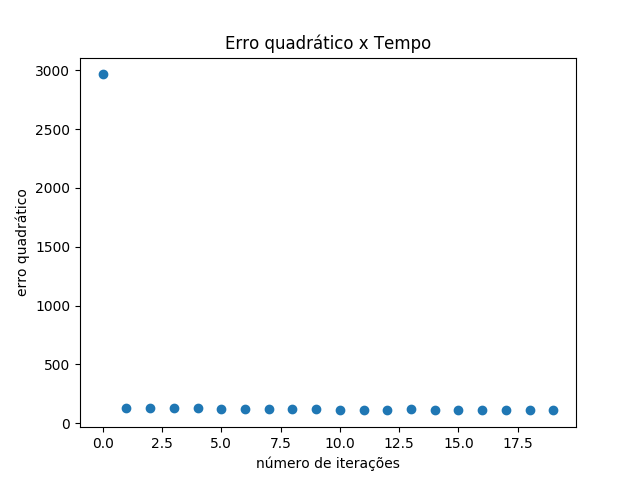
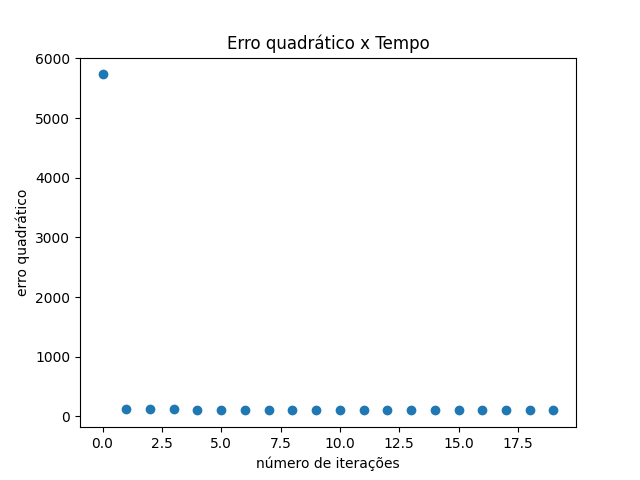
Added the GD_cond optimizer

diff --git a/PARTE2/square.py b/PARTE2/square.py
@@ -5,7 +5,7 @@ from joelnet.train import train
 from joelnet.nn import NeuralNet
 from joelnet.layers import Linear, Tanh, Sigmoid, reLu
 from joelnet.data import BatchIterator
-from joelnet.optim import SGD, RMSProp, SGD_Nesterov, Adam, Barzilai, LM
+from joelnet.optim import SGD, RMSProp, SGD_Nesterov, Adam, Barzilai, LM, GD_cond
 from joelnet.loss import MSE, Log_loss
 import random
 import sys
@@ -19,35 +19,44 @@ inputs = np.array([
     [5]
 ])
 
-targets = np.array([
-    [1],
-    [4],
-    [9],
-    [16],
-    [25]
-])
+# inputs = []
+# for i in range(100):
+# 	inputs.append([i])
+# inputs = np.array(inputs)
+
+# targets = np.array([
+#     [1],
+#     [4],
+#     [9],
+#     [16],
+#     [25]
+# ])
+targets = inputs**2
 
 
 net = NeuralNet([
-    Linear(input_size=1, output_size=2),
+    Linear(input_size=1, output_size=3),
+    Tanh(),
+    Linear(input_size=3, output_size=10),
     reLu(),
-    Linear(input_size=2, output_size=2),
+    Linear(input_size=10, output_size=3),
     reLu(),
-    Linear(input_size=2, output_size=1) 
+    Linear(input_size=3, output_size=1) 
 ])
 
-n_epochs = 1000
+
+n_epochs = 100
 
 #loss_list = train(net, inputs,targets, optimizer = Adam(lr = 1e-2, gamma1 = 0.3, gamma2 = 0.3),iterator = BatchIterator(batch_size = 5), num_epochs = 1000)
-loss_list = train(net, inputs,targets, loss = MSE() ,optimizer = LM(),iterator = BatchIterator(batch_size =  5), num_epochs = n_epochs)
+loss_list = train(net, inputs,targets, loss = MSE() ,optimizer = GD_cond(1e-4),iterator = BatchIterator(batch_size =  5, shuffle = False), num_epochs = n_epochs)
 
 
 
 
 
-for x, y in zip(inputs, targets):
-    predicted = net.forward(x)
-    print(x, predicted, y)
+# for x, y in zip(inputs, targets):
+#     predicted = net.forward(x)
+#     print(x, predicted, y)
 
 
 
@@ -61,8 +70,9 @@ plt.show()
 
 ex = np.linspace(0,100,100)
 ey = [net.forward([val]) for val in ex] 
-plt.axis([0,10,0,30])
-plt.scatter([1,2,3,4,5],[1,4,9,16,25],s = 30, c = "red")
+plt.axis([0,5,0,25])
+aux = np.arange(6)
+plt.scatter(aux,aux**2,s = 30, c = "red")
 plt.plot(ex,ey)
 plt.savefig(f'Figuras/Square/EQ.png', format='png')
 plt.show()

diff --git a/PARTE2/joelnet/optim.py b/PARTE2/joelnet/optim.py
@@ -183,7 +183,7 @@ class LM (Optimizer):
             #     param += d[0]
 
 
-class bmsnl (Optimizer):
+class LM_cond (Optimizer):
     def __init__(self) -> None:
         self.sig_min = 1e-3
         self.sig_max = 1e-2
@@ -215,4 +215,38 @@ class bmsnl (Optimizer):
             #     param += d
             # except ValueError: 
             #     param += d[0]
+
+
+class GD_cond(Optimizer):
+    def __init__(self, lr: float = 0.001) -> None:
+        self.lr = lr
+        self.alpha = 1e3
+
+    def step(self, net: NeuralNet) -> None:
+        for param, grad in net.params_and_grads():
+
+            predicted = net.forward(net.curr_batch.inputs)
+            loss_old = net.loss_f.loss(predicted, net.curr_batch.targets)
+            
+            old_param = copy.deepcopy(param)
+            
+            param -= self.lr *grad
+            count = 0
+            
+
+            predicted = net.forward(net.curr_batch.inputs)
+            loss = net.loss_f.loss(predicted, net.curr_batch.targets)
+            print(f'\nloss: {loss} \nloss_anterior: {loss_old}\ntermo subtraido:{self.alpha*(np.linalg.norm(param - old_param))**2}\nvalor_esperado: {loss_old - self.alpha*(np.linalg.norm(param - old_param))**2}')
+            while not loss <= loss_old - self.alpha*(np.linalg.norm(param - old_param))**2:
+                print('Não passou')
+                print(f'\nloss: {loss} \nloss_anterior: {loss_old}\ntermo subtraido:{self.alpha*(np.linalg.norm(param - old_param))**2}\nvalor_esperado: {loss_old - self.alpha*(np.linalg.norm(param - old_param))**2}')
+                self.lr = self.lr / 2.0
+                param = old_param - self.lr *grad
+
+                if count > 10:
+                    break
+
+                count = count + 1
+            print('PASSEI')
+
 

diff --git a/PARTE2/fraud.py b/PARTE2/fraud.py
@@ -12,7 +12,7 @@ from sklearn.model_selection import train_test_split, cross_val_score, GridSearc
 from sklearn.preprocessing import StandardScaler
 from sklearn.metrics import precision_recall_curve, auc, precision_score
 
-data = pd.read_csv("creditcard.csv")
+data = pd.read_csv("../../Datasets/creditcard.csv")
 
 pd.set_option("display.float", "{:.2f}".format)
 
